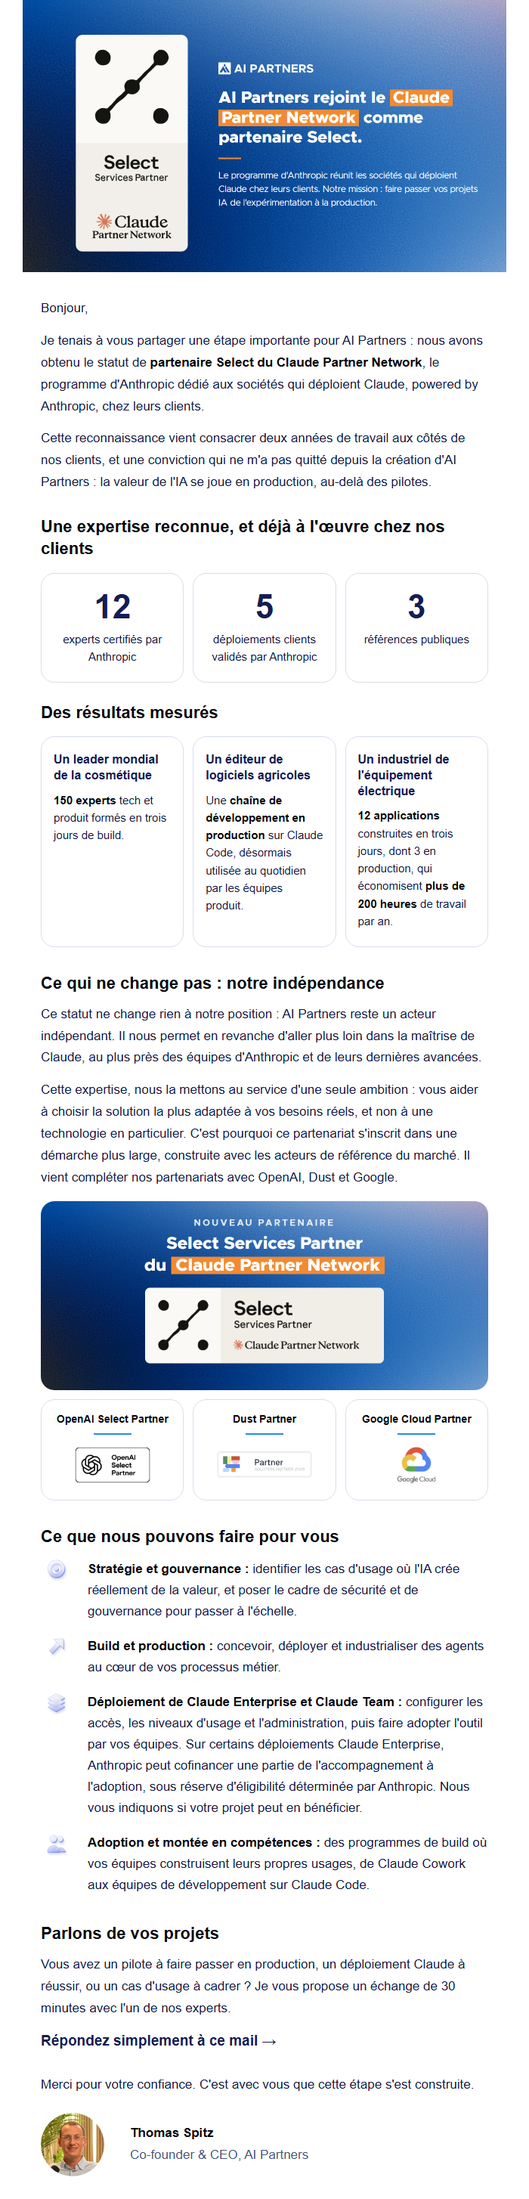
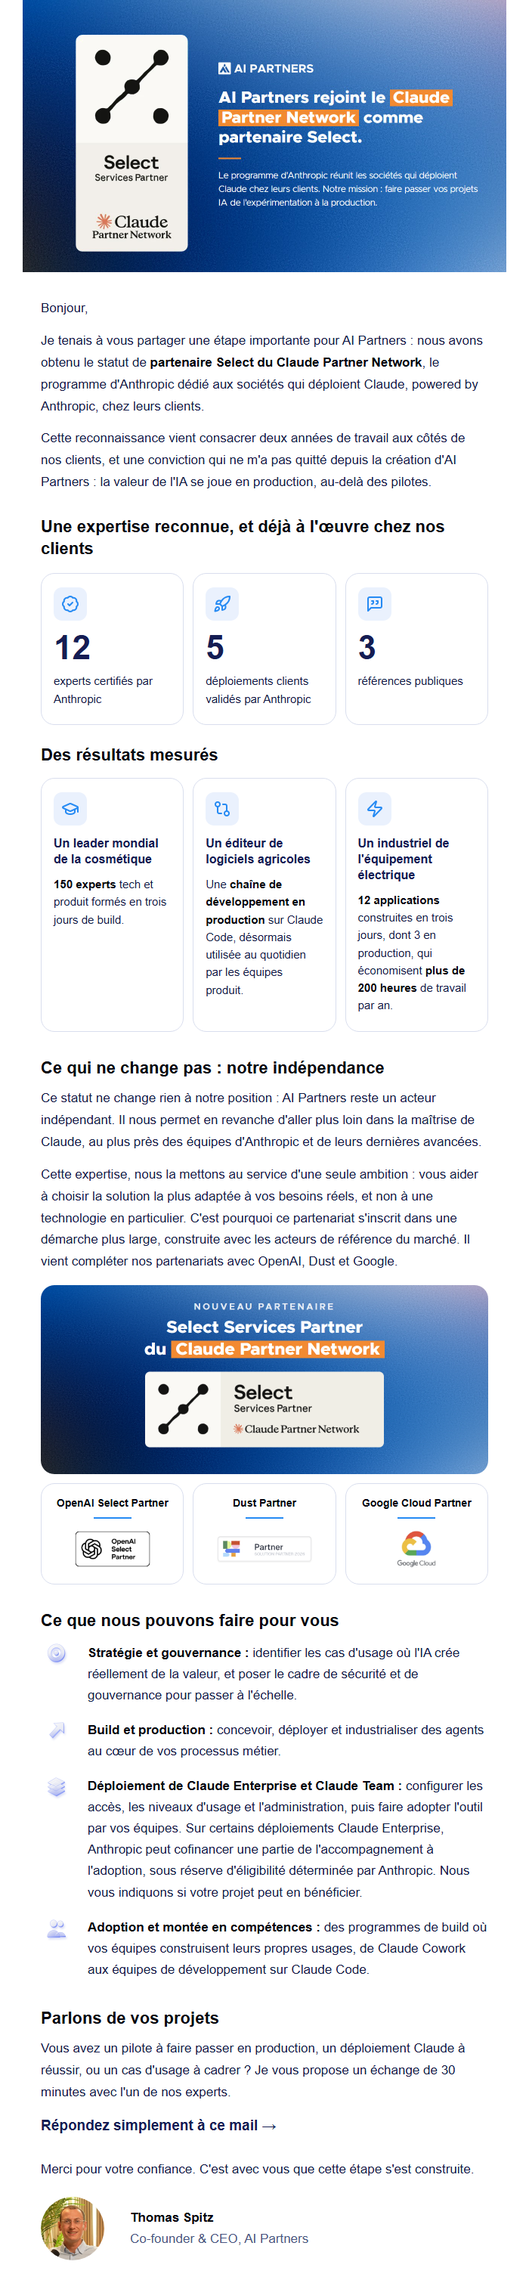
Mail d'annonce v2 : pictogrammes qui correspondent, en haut à gauche des carrés chiffres et résultats (retour d'Arthur 16/11)

Changed region(s): [[0.06, 0.0, 0.96, 0.99]]

diff --git a/PRESENTATIONS/2026-11_newsletter_anthropic_select/v2/email_hubspot_module.html b/PRESENTATIONS/2026-11_newsletter_anthropic_select/v2/email_hubspot_module.html
@@ -6,9 +6,9 @@
 <tr><td style="padding:0 4px 14px 4px;font-family:Helvetica, Arial, sans-serif;font-size:17px;line-height:1.7;color:#141B45">Je tenais à vous partager une étape importante pour AI Partners&nbsp;: nous avons obtenu le statut de <strong style="color:#05070F">partenaire Select du Claude Partner Network</strong>, le programme d'Anthropic dédié aux sociétés qui déploient Claude, powered by Anthropic, chez leurs clients.</td></tr>
 <tr><td style="padding:0 4px 30px 4px;font-family:Helvetica, Arial, sans-serif;font-size:17px;line-height:1.7;color:#141B45">Cette reconnaissance vient consacrer deux années de travail aux côtés de nos clients, et une conviction qui ne m'a pas quitté depuis la création d'AI Partners&nbsp;: la valeur de l'IA se joue en production, au-delà des pilotes.</td></tr>
 <tr><td style="padding:0px 4px 12px 4px"><h2 style="margin:0;font-family:Helvetica, Arial, sans-serif;font-size:22px;line-height:1.3;font-weight:bold;color:#05070F">Une expertise reconnue, et déjà à l'œuvre chez nos clients</h2></td></tr>
-<tr><td style="padding:6px 4px 26px 4px"><table role="presentation" width="100%" cellpadding="0" cellspacing="0" style="border-collapse:separate"><tr><td valign="top" width="32%" align="center" bgcolor="#FFFFFF" style="width:32%;background-color:#FFFFFF;border:1px solid #D9DEEE;border-radius:18px;padding:22px 12px 22px 12px;text-align:center"><div style="font-family:Helvetica, Arial, sans-serif;font-size:44px;line-height:1;font-weight:bold;color:#151D53">12</div><div style="padding-top:10px;font-family:Helvetica, Arial, sans-serif;font-size:15px;line-height:1.5;color:#141B45">experts certifiés par Anthropic</div></td><td width="2%" style="width:2%;font-size:0;line-height:0">&nbsp;</td><td valign="top" width="32%" align="center" bgcolor="#FFFFFF" style="width:32%;background-color:#FFFFFF;border:1px solid #D9DEEE;border-radius:18px;padding:22px 12px 22px 12px;text-align:center"><div style="font-family:Helvetica, Arial, sans-serif;font-size:44px;line-height:1;font-weight:bold;color:#151D53">5</div><div style="padding-top:10px;font-family:Helvetica, Arial, sans-serif;font-size:15px;line-height:1.5;color:#141B45">déploiements clients validés par Anthropic</div></td><td width="2%" style="width:2%;font-size:0;line-height:0">&nbsp;</td><td valign="top" width="32%" align="center" bgcolor="#FFFFFF" style="width:32%;background-color:#FFFFFF;border:1px solid #D9DEEE;border-radius:18px;padding:22px 12px 22px 12px;text-align:center"><div style="font-family:Helvetica, Arial, sans-serif;font-size:44px;line-height:1;font-weight:bold;color:#151D53">3</div><div style="padding-top:10px;font-family:Helvetica, Arial, sans-serif;font-size:15px;line-height:1.5;color:#141B45">références publiques</div></td></tr></table></td></tr>
+<tr><td style="padding:6px 4px 26px 4px"><table role="presentation" width="100%" cellpadding="0" cellspacing="0" style="border-collapse:separate"><tr><td valign="top" width="32%" bgcolor="#FFFFFF" style="width:32%;background-color:#FFFFFF;border:1px solid #D9DEEE;border-radius:18px;padding:18px 16px 22px 16px;font-family:Helvetica, Arial, sans-serif;font-size:15px;line-height:1.55;color:#141B45;text-align:left"><img src="https://arthurw31.github.io/ai-partners-podcast-content-machine/newsletters/anthropic-select/v2/pastille_badge-check.png" width="44" height="44" alt="" style="display:block;border:0;width:44px;height:44px;margin:0 0 14px 0"><div style="font-size:44px;line-height:1;font-weight:bold;color:#151D53">12</div><div style="padding-top:10px">experts certifiés par Anthropic</div></td><td width="2%" style="width:2%;font-size:0;line-height:0">&nbsp;</td><td valign="top" width="32%" bgcolor="#FFFFFF" style="width:32%;background-color:#FFFFFF;border:1px solid #D9DEEE;border-radius:18px;padding:18px 16px 22px 16px;font-family:Helvetica, Arial, sans-serif;font-size:15px;line-height:1.55;color:#141B45;text-align:left"><img src="https://arthurw31.github.io/ai-partners-podcast-content-machine/newsletters/anthropic-select/v2/pastille_rocket.png" width="44" height="44" alt="" style="display:block;border:0;width:44px;height:44px;margin:0 0 14px 0"><div style="font-size:44px;line-height:1;font-weight:bold;color:#151D53">5</div><div style="padding-top:10px">déploiements clients validés par Anthropic</div></td><td width="2%" style="width:2%;font-size:0;line-height:0">&nbsp;</td><td valign="top" width="32%" bgcolor="#FFFFFF" style="width:32%;background-color:#FFFFFF;border:1px solid #D9DEEE;border-radius:18px;padding:18px 16px 22px 16px;font-family:Helvetica, Arial, sans-serif;font-size:15px;line-height:1.55;color:#141B45;text-align:left"><img src="https://arthurw31.github.io/ai-partners-podcast-content-machine/newsletters/anthropic-select/v2/pastille_message-square-quote.png" width="44" height="44" alt="" style="display:block;border:0;width:44px;height:44px;margin:0 0 14px 0"><div style="font-size:44px;line-height:1;font-weight:bold;color:#151D53">3</div><div style="padding-top:10px">références publiques</div></td></tr></table></td></tr>
 <tr><td style="padding:0px 4px 12px 4px"><h2 style="margin:0;font-family:Helvetica, Arial, sans-serif;font-size:22px;line-height:1.3;font-weight:bold;color:#05070F">Des résultats mesurés</h2></td></tr>
-<tr><td style="padding:4px 4px 34px 4px"><table role="presentation" width="100%" cellpadding="0" cellspacing="0" style="border-collapse:separate"><tr><td valign="top" width="32%" bgcolor="#FFFFFF" style="width:32%;background-color:#FFFFFF;border:1px solid #D9DEEE;border-radius:18px;padding:20px 16px 22px 16px;font-family:Helvetica, Arial, sans-serif;font-size:15px;line-height:1.55;color:#141B45"><div style="padding:0 0 10px 0;font-size:16px;line-height:1.3;font-weight:bold;color:#151D53">Un leader mondial de la cosmétique</div><strong style="color:#05070F">150 experts</strong> tech et produit formés en trois jours de build.</td><td width="2%" style="width:2%;font-size:0;line-height:0">&nbsp;</td><td valign="top" width="32%" bgcolor="#FFFFFF" style="width:32%;background-color:#FFFFFF;border:1px solid #D9DEEE;border-radius:18px;padding:20px 16px 22px 16px;font-family:Helvetica, Arial, sans-serif;font-size:15px;line-height:1.55;color:#141B45"><div style="padding:0 0 10px 0;font-size:16px;line-height:1.3;font-weight:bold;color:#151D53">Un éditeur de logiciels agricoles</div>Une <strong style="color:#05070F">chaîne de développement en production</strong> sur Claude Code, désormais utilisée au quotidien par les équipes produit.</td><td width="2%" style="width:2%;font-size:0;line-height:0">&nbsp;</td><td valign="top" width="32%" bgcolor="#FFFFFF" style="width:32%;background-color:#FFFFFF;border:1px solid #D9DEEE;border-radius:18px;padding:20px 16px 22px 16px;font-family:Helvetica, Arial, sans-serif;font-size:15px;line-height:1.55;color:#141B45"><div style="padding:0 0 10px 0;font-size:16px;line-height:1.3;font-weight:bold;color:#151D53">Un industriel de l'équipement électrique</div><strong style="color:#05070F">12 applications</strong> construites en trois jours, dont 3 en production, qui économisent <strong style="color:#05070F">plus de 200 heures</strong> de travail par an.</td></tr></table></td></tr>
+<tr><td style="padding:4px 4px 34px 4px"><table role="presentation" width="100%" cellpadding="0" cellspacing="0" style="border-collapse:separate"><tr><td valign="top" width="32%" bgcolor="#FFFFFF" style="width:32%;background-color:#FFFFFF;border:1px solid #D9DEEE;border-radius:18px;padding:18px 16px 22px 16px;font-family:Helvetica, Arial, sans-serif;font-size:15px;line-height:1.55;color:#141B45;text-align:left"><img src="https://arthurw31.github.io/ai-partners-podcast-content-machine/newsletters/anthropic-select/v2/pastille_graduation-cap.png" width="44" height="44" alt="" style="display:block;border:0;width:44px;height:44px;margin:0 0 14px 0"><div style="padding:0 0 10px 0;font-size:16px;line-height:1.3;font-weight:bold;color:#151D53">Un leader mondial de la cosmétique</div><strong style="color:#05070F">150 experts</strong> tech et produit formés en trois jours de build.</td><td width="2%" style="width:2%;font-size:0;line-height:0">&nbsp;</td><td valign="top" width="32%" bgcolor="#FFFFFF" style="width:32%;background-color:#FFFFFF;border:1px solid #D9DEEE;border-radius:18px;padding:18px 16px 22px 16px;font-family:Helvetica, Arial, sans-serif;font-size:15px;line-height:1.55;color:#141B45;text-align:left"><img src="https://arthurw31.github.io/ai-partners-podcast-content-machine/newsletters/anthropic-select/v2/pastille_git-compare.png" width="44" height="44" alt="" style="display:block;border:0;width:44px;height:44px;margin:0 0 14px 0"><div style="padding:0 0 10px 0;font-size:16px;line-height:1.3;font-weight:bold;color:#151D53">Un éditeur de logiciels agricoles</div>Une <strong style="color:#05070F">chaîne de développement en production</strong> sur Claude Code, désormais utilisée au quotidien par les équipes produit.</td><td width="2%" style="width:2%;font-size:0;line-height:0">&nbsp;</td><td valign="top" width="32%" bgcolor="#FFFFFF" style="width:32%;background-color:#FFFFFF;border:1px solid #D9DEEE;border-radius:18px;padding:18px 16px 22px 16px;font-family:Helvetica, Arial, sans-serif;font-size:15px;line-height:1.55;color:#141B45;text-align:left"><img src="https://arthurw31.github.io/ai-partners-podcast-content-machine/newsletters/anthropic-select/v2/pastille_zap.png" width="44" height="44" alt="" style="display:block;border:0;width:44px;height:44px;margin:0 0 14px 0"><div style="padding:0 0 10px 0;font-size:16px;line-height:1.3;font-weight:bold;color:#151D53">Un industriel de l'équipement électrique</div><strong style="color:#05070F">12 applications</strong> construites en trois jours, dont 3 en production, qui économisent <strong style="color:#05070F">plus de 200 heures</strong> de travail par an.</td></tr></table></td></tr>
 <tr><td style="padding:0px 4px 12px 4px"><h2 style="margin:0;font-family:Helvetica, Arial, sans-serif;font-size:22px;line-height:1.3;font-weight:bold;color:#05070F">Ce qui ne change pas&nbsp;: notre indépendance</h2></td></tr><tr><td style="padding:0 4px 14px 4px;font-family:Helvetica, Arial, sans-serif;font-size:17px;line-height:1.7;color:#141B45">Ce statut ne change rien à notre position&nbsp;: AI Partners reste un acteur indépendant. Il nous permet en revanche d'aller plus loin dans la maîtrise de Claude, au plus près des équipes d'Anthropic et de leurs dernières avancées.</td></tr><tr><td style="padding:0 4px 16px 4px;font-family:Helvetica, Arial, sans-serif;font-size:17px;line-height:1.7;color:#141B45">Cette expertise, nous la mettons au service d'une seule ambition&nbsp;: vous aider à choisir la solution la plus adaptée à vos besoins réels, et non à une technologie en particulier. C'est pourquoi ce partenariat s'inscrit dans une démarche plus large, construite avec les acteurs de référence du marché. Il vient compléter nos partenariats avec OpenAI, Dust et Google.</td></tr><tr><td style="padding:0 4px 34px 4px"><img src="https://arthurw31.github.io/ai-partners-podcast-content-machine/newsletters/anthropic-select/v2/encadre_nouveau_partenaire.png" width="592" height="250" alt="Nouveau partenaire : Select Services Partner du Claude Partner Network" style="display:block;border:0;width:592px;height:250px;width:100%;max-width:592px;height:auto"><div style="height:12px;font-size:0;line-height:0">&nbsp;</div><table role="presentation" width="100%" cellpadding="0" cellspacing="0" style="border-collapse:separate"><tr><td width="32%" valign="top" align="center" bgcolor="#FFFFFF" style="width:32%;border:1px solid #D9DEEE;border-radius:18px;padding:16px 6px 18px 6px;font-family:Helvetica, Arial, sans-serif;text-align:center"><div style="font-size:14px;line-height:1.3;font-weight:bold;color:#05070F">OpenAI Select Partner</div><table role="presentation" align="center" cellpadding="0" cellspacing="0" style="margin:10px auto 12px auto"><tr><td width="50" height="2" bgcolor="#258AF3" style="width:50px;height:2px;font-size:0;line-height:0">&nbsp;</td></tr></table><table role="presentation" align="center" cellpadding="0" cellspacing="0"><tr><td height="56" valign="middle" align="center" style="height:56px"><img src="https://arthurw31.github.io/ai-partners-podcast-content-machine/newsletters/anthropic-select/v2/partenaire_openai.png" width="106" height="54" alt="OpenAI Select Partner" style="display:block;border:0;width:106px;height:54px;"></td></tr></table></td><td width="2%" style="width:2%;font-size:0;line-height:0">&nbsp;</td><td width="32%" valign="top" align="center" bgcolor="#FFFFFF" style="width:32%;border:1px solid #D9DEEE;border-radius:18px;padding:16px 6px 18px 6px;font-family:Helvetica, Arial, sans-serif;text-align:center"><div style="font-size:14px;line-height:1.3;font-weight:bold;color:#05070F">Dust Partner</div><table role="presentation" align="center" cellpadding="0" cellspacing="0" style="margin:10px auto 12px auto"><tr><td width="50" height="2" bgcolor="#258AF3" style="width:50px;height:2px;font-size:0;line-height:0">&nbsp;</td></tr></table><table role="presentation" align="center" cellpadding="0" cellspacing="0"><tr><td height="56" valign="middle" align="center" style="height:56px"><img src="https://arthurw31.github.io/ai-partners-podcast-content-machine/newsletters/anthropic-select/v2/partenaire_dust.png" width="130" height="39" alt="Dust Partner" style="display:block;border:0;width:130px;height:39px;"></td></tr></table></td><td width="2%" style="width:2%;font-size:0;line-height:0">&nbsp;</td><td width="32%" valign="top" align="center" bgcolor="#FFFFFF" style="width:32%;border:1px solid #D9DEEE;border-radius:18px;padding:16px 6px 18px 6px;font-family:Helvetica, Arial, sans-serif;text-align:center"><div style="font-size:14px;line-height:1.3;font-weight:bold;color:#05070F">Google Cloud Partner</div><table role="presentation" align="center" cellpadding="0" cellspacing="0" style="margin:10px auto 12px auto"><tr><td width="50" height="2" bgcolor="#258AF3" style="width:50px;height:2px;font-size:0;line-height:0">&nbsp;</td></tr></table><table role="presentation" align="center" cellpadding="0" cellspacing="0"><tr><td height="56" valign="middle" align="center" style="height:56px"><img src="https://arthurw31.github.io/ai-partners-podcast-content-machine/newsletters/anthropic-select/v2/partenaire_google.png" width="58" height="56" alt="Google Cloud Partner" style="display:block;border:0;width:58px;height:56px;"></td></tr></table></td></tr></table></td></tr>
 <tr><td style="padding:0px 4px 12px 4px"><h2 style="margin:0;font-family:Helvetica, Arial, sans-serif;font-size:22px;line-height:1.3;font-weight:bold;color:#05070F">Ce que nous pouvons faire pour vous</h2></td></tr>
 <tr><td style="padding:0 4px 26px 4px"><table role="presentation" width="100%" cellpadding="0" cellspacing="0"><tr><td style="padding:2px 0 2px 0;font-family:Helvetica, Arial, sans-serif;font-size:17px;line-height:1.65;color:#141B45"><table role="presentation" width="100%" cellpadding="0" cellspacing="0"><tr><td valign="top" width="52" style="width:52px;padding:0 10px 0 0"><img src="https://arthurw31.github.io/ai-partners-podcast-content-machine/newsletters/anthropic-select/v2/verre_target_42.png" width="42" height="42" alt="" style="display:block;border:0;width:42px;height:42px;margin-top:-6px"></td><td valign="top" style="padding:0 0 18px 0;font-family:Helvetica, Arial, sans-serif;font-size:17px;line-height:1.65;color:#141B45"><strong style="color:#05070F">Stratégie et gouvernance&nbsp;:</strong> identifier les cas d'usage où l'IA crée réellement de la valeur, et poser le cadre de sécurité et de gouvernance pour passer à l'échelle.</td></tr></table><table role="presentation" width="100%" cellpadding="0" cellspacing="0"><tr><td valign="top" width="52" style="width:52px;padding:0 10px 0 0"><img src="https://arthurw31.github.io/ai-partners-podcast-content-machine/newsletters/anthropic-select/v2/verre_rocket_42.png" width="42" height="42" alt="" style="display:block;border:0;width:42px;height:42px;margin-top:-6px"></td><td valign="top" style="padding:0 0 18px 0;font-family:Helvetica, Arial, sans-serif;font-size:17px;line-height:1.65;color:#141B45"><strong style="color:#05070F">Build et production&nbsp;:</strong> concevoir, déployer et industrialiser des agents au cœur de vos processus métier.</td></tr></table><table role="presentation" width="100%" cellpadding="0" cellspacing="0"><tr><td valign="top" width="52" style="width:52px;padding:0 10px 0 0"><img src="https://arthurw31.github.io/ai-partners-podcast-content-machine/newsletters/anthropic-select/v2/verre_layers_42.png" width="42" height="42" alt="" style="display:block;border:0;width:42px;height:42px;margin-top:-6px"></td><td valign="top" style="padding:0 0 18px 0;font-family:Helvetica, Arial, sans-serif;font-size:17px;line-height:1.65;color:#141B45"><strong style="color:#05070F">Déploiement de Claude Enterprise et Claude Team&nbsp;:</strong> configurer les accès, les niveaux d'usage et l'administration, puis faire adopter l'outil par vos équipes. Sur certains déploiements Claude Enterprise, Anthropic peut cofinancer une partie de l'accompagnement à l'adoption, sous réserve d'éligibilité déterminée par Anthropic. Nous vous indiquons si votre projet peut en bénéficier.</td></tr></table><table role="presentation" width="100%" cellpadding="0" cellspacing="0"><tr><td valign="top" width="52" style="width:52px;padding:0 10px 0 0"><img src="https://arthurw31.github.io/ai-partners-podcast-content-machine/newsletters/anthropic-select/v2/verre_users_42.png" width="42" height="42" alt="" style="display:block;border:0;width:42px;height:42px;margin-top:-6px"></td><td valign="top" style="padding:0 0 0 0;font-family:Helvetica, Arial, sans-serif;font-size:17px;line-height:1.65;color:#141B45"><strong style="color:#05070F">Adoption et montée en compétences&nbsp;:</strong> des programmes de build où vos équipes construisent leurs propres usages, de Claude Cowork aux équipes de développement sur Claude Code.</td></tr></table></td></tr></table></td></tr>

diff --git a/PRESENTATIONS/2026-11_newsletter_anthropic_select/v2/email.html b/PRESENTATIONS/2026-11_newsletter_anthropic_select/v2/email.html
@@ -10,9 +10,9 @@
 <tr><td style="padding:0 4px 14px 4px;font-family:Helvetica, Arial, sans-serif;font-size:17px;line-height:1.7;color:#141B45">Je tenais à vous partager une étape importante pour AI Partners&nbsp;: nous avons obtenu le statut de <strong style="color:#05070F">partenaire Select du Claude Partner Network</strong>, le programme d'Anthropic dédié aux sociétés qui déploient Claude, powered by Anthropic, chez leurs clients.</td></tr>
 <tr><td style="padding:0 4px 30px 4px;font-family:Helvetica, Arial, sans-serif;font-size:17px;line-height:1.7;color:#141B45">Cette reconnaissance vient consacrer deux années de travail aux côtés de nos clients, et une conviction qui ne m'a pas quitté depuis la création d'AI Partners&nbsp;: la valeur de l'IA se joue en production, au-delà des pilotes.</td></tr>
 <tr><td style="padding:0px 4px 12px 4px"><h2 style="margin:0;font-family:Helvetica, Arial, sans-serif;font-size:22px;line-height:1.3;font-weight:bold;color:#05070F">Une expertise reconnue, et déjà à l'œuvre chez nos clients</h2></td></tr>
-<tr><td style="padding:6px 4px 26px 4px"><table role="presentation" width="100%" cellpadding="0" cellspacing="0" style="border-collapse:separate"><tr><td valign="top" width="32%" align="center" bgcolor="#FFFFFF" style="width:32%;background-color:#FFFFFF;border:1px solid #D9DEEE;border-radius:18px;padding:22px 12px 22px 12px;text-align:center"><div style="font-family:Helvetica, Arial, sans-serif;font-size:44px;line-height:1;font-weight:bold;color:#151D53">12</div><div style="padding-top:10px;font-family:Helvetica, Arial, sans-serif;font-size:15px;line-height:1.5;color:#141B45">experts certifiés par Anthropic</div></td><td width="2%" style="width:2%;font-size:0;line-height:0">&nbsp;</td><td valign="top" width="32%" align="center" bgcolor="#FFFFFF" style="width:32%;background-color:#FFFFFF;border:1px solid #D9DEEE;border-radius:18px;padding:22px 12px 22px 12px;text-align:center"><div style="font-family:Helvetica, Arial, sans-serif;font-size:44px;line-height:1;font-weight:bold;color:#151D53">5</div><div style="padding-top:10px;font-family:Helvetica, Arial, sans-serif;font-size:15px;line-height:1.5;color:#141B45">déploiements clients validés par Anthropic</div></td><td width="2%" style="width:2%;font-size:0;line-height:0">&nbsp;</td><td valign="top" width="32%" align="center" bgcolor="#FFFFFF" style="width:32%;background-color:#FFFFFF;border:1px solid #D9DEEE;border-radius:18px;padding:22px 12px 22px 12px;text-align:center"><div style="font-family:Helvetica, Arial, sans-serif;font-size:44px;line-height:1;font-weight:bold;color:#151D53">3</div><div style="padding-top:10px;font-family:Helvetica, Arial, sans-serif;font-size:15px;line-height:1.5;color:#141B45">références publiques</div></td></tr></table></td></tr>
+<tr><td style="padding:6px 4px 26px 4px"><table role="presentation" width="100%" cellpadding="0" cellspacing="0" style="border-collapse:separate"><tr><td valign="top" width="32%" bgcolor="#FFFFFF" style="width:32%;background-color:#FFFFFF;border:1px solid #D9DEEE;border-radius:18px;padding:18px 16px 22px 16px;font-family:Helvetica, Arial, sans-serif;font-size:15px;line-height:1.55;color:#141B45;text-align:left"><img src="images/pastille_badge-check.png" width="44" height="44" alt="" style="display:block;border:0;width:44px;height:44px;margin:0 0 14px 0"><div style="font-size:44px;line-height:1;font-weight:bold;color:#151D53">12</div><div style="padding-top:10px">experts certifiés par Anthropic</div></td><td width="2%" style="width:2%;font-size:0;line-height:0">&nbsp;</td><td valign="top" width="32%" bgcolor="#FFFFFF" style="width:32%;background-color:#FFFFFF;border:1px solid #D9DEEE;border-radius:18px;padding:18px 16px 22px 16px;font-family:Helvetica, Arial, sans-serif;font-size:15px;line-height:1.55;color:#141B45;text-align:left"><img src="images/pastille_rocket.png" width="44" height="44" alt="" style="display:block;border:0;width:44px;height:44px;margin:0 0 14px 0"><div style="font-size:44px;line-height:1;font-weight:bold;color:#151D53">5</div><div style="padding-top:10px">déploiements clients validés par Anthropic</div></td><td width="2%" style="width:2%;font-size:0;line-height:0">&nbsp;</td><td valign="top" width="32%" bgcolor="#FFFFFF" style="width:32%;background-color:#FFFFFF;border:1px solid #D9DEEE;border-radius:18px;padding:18px 16px 22px 16px;font-family:Helvetica, Arial, sans-serif;font-size:15px;line-height:1.55;color:#141B45;text-align:left"><img src="images/pastille_message-square-quote.png" width="44" height="44" alt="" style="display:block;border:0;width:44px;height:44px;margin:0 0 14px 0"><div style="font-size:44px;line-height:1;font-weight:bold;color:#151D53">3</div><div style="padding-top:10px">références publiques</div></td></tr></table></td></tr>
 <tr><td style="padding:0px 4px 12px 4px"><h2 style="margin:0;font-family:Helvetica, Arial, sans-serif;font-size:22px;line-height:1.3;font-weight:bold;color:#05070F">Des résultats mesurés</h2></td></tr>
-<tr><td style="padding:4px 4px 34px 4px"><table role="presentation" width="100%" cellpadding="0" cellspacing="0" style="border-collapse:separate"><tr><td valign="top" width="32%" bgcolor="#FFFFFF" style="width:32%;background-color:#FFFFFF;border:1px solid #D9DEEE;border-radius:18px;padding:20px 16px 22px 16px;font-family:Helvetica, Arial, sans-serif;font-size:15px;line-height:1.55;color:#141B45"><div style="padding:0 0 10px 0;font-size:16px;line-height:1.3;font-weight:bold;color:#151D53">Un leader mondial de la cosmétique</div><strong style="color:#05070F">150 experts</strong> tech et produit formés en trois jours de build.</td><td width="2%" style="width:2%;font-size:0;line-height:0">&nbsp;</td><td valign="top" width="32%" bgcolor="#FFFFFF" style="width:32%;background-color:#FFFFFF;border:1px solid #D9DEEE;border-radius:18px;padding:20px 16px 22px 16px;font-family:Helvetica, Arial, sans-serif;font-size:15px;line-height:1.55;color:#141B45"><div style="padding:0 0 10px 0;font-size:16px;line-height:1.3;font-weight:bold;color:#151D53">Un éditeur de logiciels agricoles</div>Une <strong style="color:#05070F">chaîne de développement en production</strong> sur Claude Code, désormais utilisée au quotidien par les équipes produit.</td><td width="2%" style="width:2%;font-size:0;line-height:0">&nbsp;</td><td valign="top" width="32%" bgcolor="#FFFFFF" style="width:32%;background-color:#FFFFFF;border:1px solid #D9DEEE;border-radius:18px;padding:20px 16px 22px 16px;font-family:Helvetica, Arial, sans-serif;font-size:15px;line-height:1.55;color:#141B45"><div style="padding:0 0 10px 0;font-size:16px;line-height:1.3;font-weight:bold;color:#151D53">Un industriel de l'équipement électrique</div><strong style="color:#05070F">12 applications</strong> construites en trois jours, dont 3 en production, qui économisent <strong style="color:#05070F">plus de 200 heures</strong> de travail par an.</td></tr></table></td></tr>
+<tr><td style="padding:4px 4px 34px 4px"><table role="presentation" width="100%" cellpadding="0" cellspacing="0" style="border-collapse:separate"><tr><td valign="top" width="32%" bgcolor="#FFFFFF" style="width:32%;background-color:#FFFFFF;border:1px solid #D9DEEE;border-radius:18px;padding:18px 16px 22px 16px;font-family:Helvetica, Arial, sans-serif;font-size:15px;line-height:1.55;color:#141B45;text-align:left"><img src="images/pastille_graduation-cap.png" width="44" height="44" alt="" style="display:block;border:0;width:44px;height:44px;margin:0 0 14px 0"><div style="padding:0 0 10px 0;font-size:16px;line-height:1.3;font-weight:bold;color:#151D53">Un leader mondial de la cosmétique</div><strong style="color:#05070F">150 experts</strong> tech et produit formés en trois jours de build.</td><td width="2%" style="width:2%;font-size:0;line-height:0">&nbsp;</td><td valign="top" width="32%" bgcolor="#FFFFFF" style="width:32%;background-color:#FFFFFF;border:1px solid #D9DEEE;border-radius:18px;padding:18px 16px 22px 16px;font-family:Helvetica, Arial, sans-serif;font-size:15px;line-height:1.55;color:#141B45;text-align:left"><img src="images/pastille_git-compare.png" width="44" height="44" alt="" style="display:block;border:0;width:44px;height:44px;margin:0 0 14px 0"><div style="padding:0 0 10px 0;font-size:16px;line-height:1.3;font-weight:bold;color:#151D53">Un éditeur de logiciels agricoles</div>Une <strong style="color:#05070F">chaîne de développement en production</strong> sur Claude Code, désormais utilisée au quotidien par les équipes produit.</td><td width="2%" style="width:2%;font-size:0;line-height:0">&nbsp;</td><td valign="top" width="32%" bgcolor="#FFFFFF" style="width:32%;background-color:#FFFFFF;border:1px solid #D9DEEE;border-radius:18px;padding:18px 16px 22px 16px;font-family:Helvetica, Arial, sans-serif;font-size:15px;line-height:1.55;color:#141B45;text-align:left"><img src="images/pastille_zap.png" width="44" height="44" alt="" style="display:block;border:0;width:44px;height:44px;margin:0 0 14px 0"><div style="padding:0 0 10px 0;font-size:16px;line-height:1.3;font-weight:bold;color:#151D53">Un industriel de l'équipement électrique</div><strong style="color:#05070F">12 applications</strong> construites en trois jours, dont 3 en production, qui économisent <strong style="color:#05070F">plus de 200 heures</strong> de travail par an.</td></tr></table></td></tr>
 <tr><td style="padding:0px 4px 12px 4px"><h2 style="margin:0;font-family:Helvetica, Arial, sans-serif;font-size:22px;line-height:1.3;font-weight:bold;color:#05070F">Ce qui ne change pas&nbsp;: notre indépendance</h2></td></tr><tr><td style="padding:0 4px 14px 4px;font-family:Helvetica, Arial, sans-serif;font-size:17px;line-height:1.7;color:#141B45">Ce statut ne change rien à notre position&nbsp;: AI Partners reste un acteur indépendant. Il nous permet en revanche d'aller plus loin dans la maîtrise de Claude, au plus près des équipes d'Anthropic et de leurs dernières avancées.</td></tr><tr><td style="padding:0 4px 16px 4px;font-family:Helvetica, Arial, sans-serif;font-size:17px;line-height:1.7;color:#141B45">Cette expertise, nous la mettons au service d'une seule ambition&nbsp;: vous aider à choisir la solution la plus adaptée à vos besoins réels, et non à une technologie en particulier. C'est pourquoi ce partenariat s'inscrit dans une démarche plus large, construite avec les acteurs de référence du marché. Il vient compléter nos partenariats avec OpenAI, Dust et Google.</td></tr><tr><td style="padding:0 4px 34px 4px"><img src="images/encadre_nouveau_partenaire.png" width="592" height="250" alt="Nouveau partenaire : Select Services Partner du Claude Partner Network" style="display:block;border:0;width:592px;height:250px;width:100%;max-width:592px;height:auto"><div style="height:12px;font-size:0;line-height:0">&nbsp;</div><table role="presentation" width="100%" cellpadding="0" cellspacing="0" style="border-collapse:separate"><tr><td width="32%" valign="top" align="center" bgcolor="#FFFFFF" style="width:32%;border:1px solid #D9DEEE;border-radius:18px;padding:16px 6px 18px 6px;font-family:Helvetica, Arial, sans-serif;text-align:center"><div style="font-size:14px;line-height:1.3;font-weight:bold;color:#05070F">OpenAI Select Partner</div><table role="presentation" align="center" cellpadding="0" cellspacing="0" style="margin:10px auto 12px auto"><tr><td width="50" height="2" bgcolor="#258AF3" style="width:50px;height:2px;font-size:0;line-height:0">&nbsp;</td></tr></table><table role="presentation" align="center" cellpadding="0" cellspacing="0"><tr><td height="56" valign="middle" align="center" style="height:56px"><img src="images/partenaire_openai.png" width="106" height="54" alt="OpenAI Select Partner" style="display:block;border:0;width:106px;height:54px;"></td></tr></table></td><td width="2%" style="width:2%;font-size:0;line-height:0">&nbsp;</td><td width="32%" valign="top" align="center" bgcolor="#FFFFFF" style="width:32%;border:1px solid #D9DEEE;border-radius:18px;padding:16px 6px 18px 6px;font-family:Helvetica, Arial, sans-serif;text-align:center"><div style="font-size:14px;line-height:1.3;font-weight:bold;color:#05070F">Dust Partner</div><table role="presentation" align="center" cellpadding="0" cellspacing="0" style="margin:10px auto 12px auto"><tr><td width="50" height="2" bgcolor="#258AF3" style="width:50px;height:2px;font-size:0;line-height:0">&nbsp;</td></tr></table><table role="presentation" align="center" cellpadding="0" cellspacing="0"><tr><td height="56" valign="middle" align="center" style="height:56px"><img src="images/partenaire_dust.png" width="130" height="39" alt="Dust Partner" style="display:block;border:0;width:130px;height:39px;"></td></tr></table></td><td width="2%" style="width:2%;font-size:0;line-height:0">&nbsp;</td><td width="32%" valign="top" align="center" bgcolor="#FFFFFF" style="width:32%;border:1px solid #D9DEEE;border-radius:18px;padding:16px 6px 18px 6px;font-family:Helvetica, Arial, sans-serif;text-align:center"><div style="font-size:14px;line-height:1.3;font-weight:bold;color:#05070F">Google Cloud Partner</div><table role="presentation" align="center" cellpadding="0" cellspacing="0" style="margin:10px auto 12px auto"><tr><td width="50" height="2" bgcolor="#258AF3" style="width:50px;height:2px;font-size:0;line-height:0">&nbsp;</td></tr></table><table role="presentation" align="center" cellpadding="0" cellspacing="0"><tr><td height="56" valign="middle" align="center" style="height:56px"><img src="images/partenaire_google.png" width="58" height="56" alt="Google Cloud Partner" style="display:block;border:0;width:58px;height:56px;"></td></tr></table></td></tr></table></td></tr>
 <tr><td style="padding:0px 4px 12px 4px"><h2 style="margin:0;font-family:Helvetica, Arial, sans-serif;font-size:22px;line-height:1.3;font-weight:bold;color:#05070F">Ce que nous pouvons faire pour vous</h2></td></tr>
 <tr><td style="padding:0 4px 26px 4px"><table role="presentation" width="100%" cellpadding="0" cellspacing="0"><tr><td style="padding:2px 0 2px 0;font-family:Helvetica, Arial, sans-serif;font-size:17px;line-height:1.65;color:#141B45"><table role="presentation" width="100%" cellpadding="0" cellspacing="0"><tr><td valign="top" width="52" style="width:52px;padding:0 10px 0 0"><img src="images/verre_target_42.png" width="42" height="42" alt="" style="display:block;border:0;width:42px;height:42px;margin-top:-6px"></td><td valign="top" style="padding:0 0 18px 0;font-family:Helvetica, Arial, sans-serif;font-size:17px;line-height:1.65;color:#141B45"><strong style="color:#05070F">Stratégie et gouvernance&nbsp;:</strong> identifier les cas d'usage où l'IA crée réellement de la valeur, et poser le cadre de sécurité et de gouvernance pour passer à l'échelle.</td></tr></table><table role="presentation" width="100%" cellpadding="0" cellspacing="0"><tr><td valign="top" width="52" style="width:52px;padding:0 10px 0 0"><img src="images/verre_rocket_42.png" width="42" height="42" alt="" style="display:block;border:0;width:42px;height:42px;margin-top:-6px"></td><td valign="top" style="padding:0 0 18px 0;font-family:Helvetica, Arial, sans-serif;font-size:17px;line-height:1.65;color:#141B45"><strong style="color:#05070F">Build et production&nbsp;:</strong> concevoir, déployer et industrialiser des agents au cœur de vos processus métier.</td></tr></table><table role="presentation" width="100%" cellpadding="0" cellspacing="0"><tr><td valign="top" width="52" style="width:52px;padding:0 10px 0 0"><img src="images/verre_layers_42.png" width="42" height="42" alt="" style="display:block;border:0;width:42px;height:42px;margin-top:-6px"></td><td valign="top" style="padding:0 0 18px 0;font-family:Helvetica, Arial, sans-serif;font-size:17px;line-height:1.65;color:#141B45"><strong style="color:#05070F">Déploiement de Claude Enterprise et Claude Team&nbsp;:</strong> configurer les accès, les niveaux d'usage et l'administration, puis faire adopter l'outil par vos équipes. Sur certains déploiements Claude Enterprise, Anthropic peut cofinancer une partie de l'accompagnement à l'adoption, sous réserve d'éligibilité déterminée par Anthropic. Nous vous indiquons si votre projet peut en bénéficier.</td></tr></table><table role="presentation" width="100%" cellpadding="0" cellspacing="0"><tr><td valign="top" width="52" style="width:52px;padding:0 10px 0 0"><img src="images/verre_users_42.png" width="42" height="42" alt="" style="display:block;border:0;width:42px;height:42px;margin-top:-6px"></td><td valign="top" style="padding:0 0 0 0;font-family:Helvetica, Arial, sans-serif;font-size:17px;line-height:1.65;color:#141B45"><strong style="color:#05070F">Adoption et montée en compétences&nbsp;:</strong> des programmes de build où vos équipes construisent leurs propres usages, de Claude Cowork aux équipes de développement sur Claude Code.</td></tr></table></td></tr></table></td></tr>

diff --git a/PRESENTATIONS/2026-11_newsletter_anthropic_select/v2/build_v2.py b/PRESENTATIONS/2026-11_newsletter_anthropic_select/v2/build_v2.py
@@ -71,34 +71,56 @@ def card(top: str, title: str, text: str) -> str:
             f'<div style="{F};font-size:15px;line-height:1.55;color:{TEXT}">{text}</div></td>')
 
 
+ICONS = ROOT / "MARQUES" / "ai-corner" / "assets" / "icons"
+
+
+def tile_icon(name: str) -> str:
+    """Pictogramme Lucide (ISC) en traits bleus sur une pastille bleu très pâle, rendu par Chrome en 2x (88 px pour 44 px affichés).
+    Arthur, 16/11/2026 : des icônes qui correspondent au contenu, en haut à gauche des carrés (pas d'icônes en verre, « des emoji »)."""
+    out = IMG / f"pastille_{name}.png"
+    svg = (ICONS / f"lucide_{name}.svg").read_text(encoding="utf-8").replace("currentColor", BLUE)
+    tmp = HERE / f"_{name}.svg"
+    tmp.write_text(svg, encoding="utf-8")
+    page = (f"<html><body style='margin:0;background:#FFFFFF'><div style='width:88px;height:88px;border-radius:22px;background:#EAF1FD;"
+            f"display:flex;align-items:center;justify-content:center'><img src='{_uri(tmp)}' style='width:48px;height:48px'></div>"
+            f"</body></html>")
+    _shot(page, 88, 88, out)
+    tmp.unlink()
+    return out.name
+
+
+def square(icon: str, inner: str) -> str:
+    """Carré à bord fin, pastille d'icône en haut à gauche, contenu aligné à gauche dessous."""
+    return (f'<td valign="top" width="32%" bgcolor="#FFFFFF" style="width:32%;background-color:#FFFFFF;border:1px solid {BORDER};'
+            f'border-radius:18px;padding:18px 16px 22px 16px;{F};font-size:15px;line-height:1.55;color:{TEXT};text-align:left">'
+            f'<img src="images/{tile_icon(icon)}" width="44" height="44" alt="" style="display:block;border:0;width:44px;height:44px;'
+            f'margin:0 0 14px 0">{inner}</td>')
+
+
+def row(cells: list, pad: str) -> str:
+    return (f'<tr><td style="padding:{pad}"><table role="presentation" width="100%" cellpadding="0" cellspacing="0" '
+            f'style="border-collapse:separate"><tr>{GAP.join(cells)}</tr></table></td></tr>')
+
+
 def clients() -> str:
-    # ni logo ni nom de client (retours du 16/11/2026) : le résultat seul, son chiffre en gras
     # clients ANONYMISÉS : « une entreprise de tel secteur » à la place du nom et du logo (Arthur, 16/11/2026)
-    texts = [("Un leader mondial de la cosmétique", strong("150 experts") + " tech et produit formés en trois jours de build."),
-             ("Un éditeur de logiciels agricoles", "Une " + strong("chaîne de développement en production") + " sur Claude Code, "
-              "désormais utilisée au quotidien par les équipes produit."),
-             ("Un industriel de l'équipement électrique", strong("12 applications") + " construites en trois jours, dont 3 en "
-              "production, qui économisent " + strong("plus de 200 heures") + " de travail par an.")]
-    cells = GAP.join(f'<td valign="top" width="32%" bgcolor="#FFFFFF" style="width:32%;background-color:#FFFFFF;border:1px solid {BORDER};'
-                     f'border-radius:18px;padding:20px 16px 22px 16px;{F};font-size:15px;line-height:1.55;color:{TEXT}">'
-                     f'<div style="padding:0 0 10px 0;font-size:16px;line-height:1.3;font-weight:bold;color:{NAVY}">{who}</div>{t}</td>'
-                     for who, t in texts)
-    return (f'<tr><td style="padding:4px 4px 34px 4px"><table role="presentation" width="100%" cellpadding="0" cellspacing="0" '
-            f'style="border-collapse:separate"><tr>{cells}</tr></table></td></tr>')
+    data = [("graduation-cap", "Un leader mondial de la cosmétique", strong("150 experts") + " tech et produit formés en trois jours "
+             "de build."),
+            ("git-compare", "Un éditeur de logiciels agricoles", "Une " + strong("chaîne de développement en production") + " sur "
+             "Claude Code, désormais utilisée au quotidien par les équipes produit."),
+            ("zap", "Un industriel de l'équipement électrique", strong("12 applications") + " construites en trois jours, dont 3 en "
+             "production, qui économisent " + strong("plus de 200 heures") + " de travail par an.")]
+    return row([square(i, f'<div style="padding:0 0 10px 0;font-size:16px;line-height:1.3;font-weight:bold;color:{NAVY}">{who}</div>{t}')
+                for i, who, t in data], "4px 4px 34px 4px")
 
 
 def stats() -> str:
-    """Les 3 chiffres dans 3 encadrés côte à côte, comme les cartes clients, sans icône (Arthur, 16/11/2026)."""
-    data = [("", "12", "experts certifiés par Anthropic"),
-            ("", "5", "déploiements clients validés par Anthropic"),
-            ("", "3", "références publiques")]
-    cells = GAP.join(
-        f'<td valign="top" width="32%" align="center" bgcolor="#FFFFFF" style="width:32%;background-color:#FFFFFF;border:1px solid {BORDER};'
-        f'border-radius:18px;padding:22px 12px 22px 12px;text-align:center"><div style="{F};font-size:44px;line-height:1;'
-        f'font-weight:bold;color:{NAVY}">{n}</div><div style="padding-top:10px;{F};font-size:15px;line-height:1.5;color:{TEXT}">{t}</div></td>'
-        for i, n, t in data)
-    return (f'<tr><td style="padding:6px 4px 26px 4px"><table role="presentation" width="100%" cellpadding="0" cellspacing="0" '
-            f'style="border-collapse:separate"><tr>{cells}</tr></table></td></tr>')
+    """Les 3 chiffres dans 3 carrés, pastille d'icône en haut à gauche (Arthur, 16/11/2026)."""
+    data = [("badge-check", "12", "experts certifiés par Anthropic"),
+            ("rocket", "5", "déploiements clients validés par Anthropic"),
+            ("message-square-quote", "3", "références publiques")]
+    return row([square(i, f'<div style="font-size:44px;line-height:1;font-weight:bold;color:{NAVY}">{n}</div>'
+                          f'<div style="padding-top:10px">{t}</div>') for i, n, t in data], "6px 4px 26px 4px")
 
 
 def bar_list(items: list) -> str:
